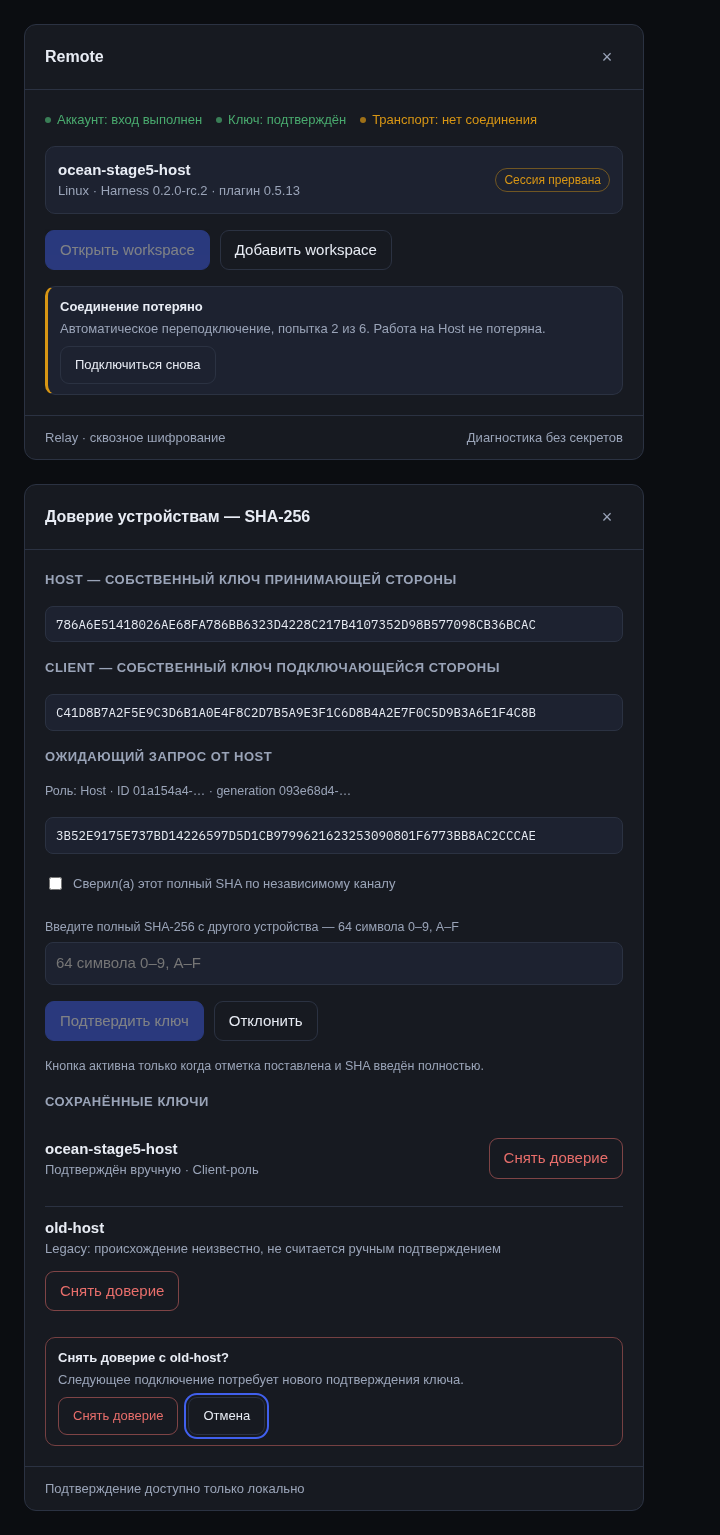
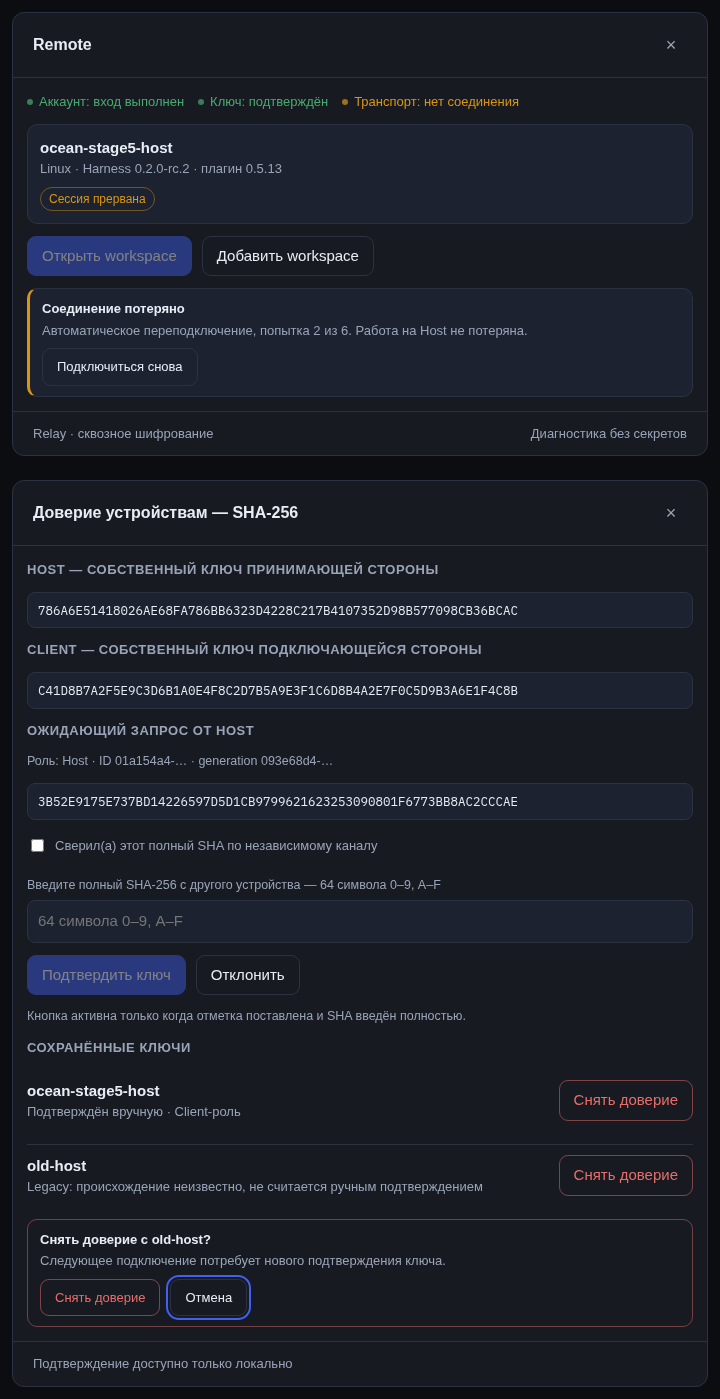
fix: make the zoom and target checks match the documented claims

diff --git a/docs/design/fork/mockups/settings-and-ocean.html b/docs/design/fork/mockups/settings-and-ocean.html
@@ -41,6 +41,7 @@
   .switch::after{content:"";position:absolute;top:50%;left:4px;transform:translateY(-50%);width:16px;height:16px;border-radius:50%;background:var(--muted)}
   .switch--on{background:color-mix(in srgb,var(--accent) 55%,transparent)}
   .switch--on::after{left:24px;background:#fff}
+  .switch:focus-visible{outline:2px solid var(--accent);outline-offset:2px}
   .notice{border:1px solid var(--border);border-left:3px solid var(--warning);border-radius:10px;padding:10px 12px;font-size:13px;color:var(--muted);background:var(--surface-2)}
   .notice strong{display:block;color:var(--ink);margin-bottom:2px}
   .meta{display:grid;grid-template-columns:max-content 1fr;gap:6px 16px;font-size:13px;color:var(--muted);margin:0}
@@ -56,7 +57,7 @@
   .pill--ok{color:var(--success);border-color:color-mix(in srgb,var(--success) 45%,transparent)}
   .pill--off{color:var(--muted)}
   .footer{display:flex;justify-content:space-between;gap:12px;padding:12px 20px;border-top:1px solid var(--border);font-size:13px;color:var(--muted);flex-wrap:wrap}
-  @media (max-width:700px){
+  @media (max-width:760px){
     .stage{padding:12px}
     .card,.card--wide{width:100%}
     .card__body{padding:14px;gap:12px}

diff --git a/docs/design/fork/mockups/remote-card.html b/docs/design/fork/mockups/remote-card.html
@@ -53,7 +53,7 @@
   .pin{display:flex;justify-content:space-between;align-items:center;gap:12px;padding:10px 0;flex-wrap:wrap}
   .pin + .pin{border-top:1px solid var(--border)}
   .footer{display:flex;justify-content:space-between;align-items:center;gap:12px;padding:12px 20px;border-top:1px solid var(--border);font-size:13px;color:var(--muted);flex-wrap:wrap}
-  @media (max-width:700px){
+  @media (max-width:760px){
     .stage{padding:12px}
     .card{width:100%}
     .card__body{padding:14px;gap:12px}

diff --git a/docs/design/fork/05-acceptance-checklist.ru.md b/docs/design/fork/05-acceptance-checklist.ru.md
@@ -4,10 +4,10 @@
 
 | Пункт | Что требуется | Как проверяется | Статус |
 | --- | --- | --- | --- |
-| UX-AC1 | Пользовательский путь 02–05 остаётся рабочим, security-тесты проходят на тех же контрактах | `pnpm -r test`, `pnpm --filter './packages/plugin' test`, чек-листы [установки](../../install-acceptance.ru.md) и [сессии](../../session-acceptance.ru.md) | Частично: тесты зелёные (494), живые двухмашинные прогоны ждут доступа к bigpc |
-| UX-AC2 | Все состояния отображены и проверены: неверный пароль, истечение запроса, смена ключа, частичный отзыв, потеря сети | матрица состояний [01-screen-map](01-screen-map.ru.md) + живые прогоны | Частично: неверный пароль/смена ключа/обрыв покрыты кодом и макетами; истечение pending и частичный отзыв в реальном UI не прогонялись |
+| UX-AC1 | Пользовательский путь 02–05 остаётся рабочим, security-тесты проходят на тех же контрактах | `pnpm --filter './packages/plugin' test` (494 теста), `pnpm -r test` для остальных пакетов, чек-листы [установки](../../install-acceptance.ru.md) и [сессии](../../session-acceptance.ru.md) | Частично: плагин — 494 теста зелёные; полный `pnpm -r test` в этой копии репозитория не запускается без `pnpm install` (нет workspace-связей); живые двухмашинные прогоны ждут доступа к bigpc |
+| UX-AC2 | Все состояния отображены и проверены: неверный пароль, истечение запроса, смена ключа, частичный отзыв, потеря сети | матрица состояний [01-screen-map](01-screen-map.ru.md) + живые прогоны | Частично: смена ключа и обрыв покрыты кодом и тестами, состояния остальных описаны в матрице и wireframes (не нарисованы в макетах); истечение pending и частичный отзыв в реальном UI не прогонялись |
 | UX-AC3 | Клавиатура и скринридер, нет фокуса за модалью и потери фокуса после закрытия | `pnpm check:mockups` (видимый фокус у всех контролов), ручной проход по диалогам | Частично: макеты проверены, живой интерфейс — нет |
-| UX-AC4 | Визуальная проверка на согласованных viewport/темах/zoom; нет обрезанного SHA и скрытых последствий | `pnpm check:mockups` (360/768/1440/720 = 200% зум, SHA 64 символа), `pnpm check:contrast` | Частично: макеты проверены; светлая тема и живой интерфейс — нет |
+| UX-AC4 | Визуальная проверка на согласованных viewport/темах/zoom; нет обрезанного SHA и скрытых последствий | `pnpm check:mockups` (360/768/1440 и 720/705 ≈ 200% зума по ширине, SHA 64 символа), `pnpm check:contrast` | Частично: макеты проверены; светлая тема и живой интерфейс — нет |
 | UX-AC5 | Макеты и фактический UI показаны пользователю, ассеты/лицензии задокументированы | [макеты](mockups/README.ru.md), [UI kit](03-ui-kit.ru.md) | Ожидает показа: макеты готовы, визуальное направление не согласовано; лицензия base64-иконок вендоров остаётся открытым вопросом |
 
 ## Что автоматизировано
@@ -15,10 +15,10 @@
 | Команда | Покрывает |
 | --- | --- |
 | `pnpm check:contrast` | 26 пар цветов консоли Ocean в двух темах, включая границы контролов и фокус |
-| `pnpm check:mockups` | макеты: нет горизонтального скролла, SHA не обрезан, доступные имена, видимый фокус, цели ≥ 32 px, нет анимации при `prefers-reduced-motion` |
+| `pnpm check:mockups` | макеты на 360/768/1440/720/705 px: нет горизонтального скролла, SHA не обрезан, доступные имена, видимый фокус, цели ≥ 32×32 px, отсутствие CSS-анимации при `prefers-reduced-motion` |
 | `pnpm -r test` | функциональные и security-тесты плагина и сервера |
 
-Обе проверки дизайна требуют Playwright только для `check:mockups`; без него шаг падает, а не пропускается молча.
+Ограничения автоматики: `check:mockups` эмулирует 200% зума только по ширине (высота окна 450 px) и видит лишь CSS-анимации, существующие на момент загрузки — переходы и анимации из JS не покрыты. Без Playwright шаг падает, а не пропускается молча.
 
 ## Что остаётся ручным
 

diff --git a/docs/design/fork/mockups/README.ru.md b/docs/design/fork/mockups/README.ru.md
@@ -25,7 +25,7 @@
 
 ## Как проверяется
 
-`pnpm check:mockups` рендерит каждый макет на 360/768/1440 и проверяет:
+`pnpm check:mockups` рендерит каждый макет на 360/768/1440 плюс 720 и 705 px (примерно 200% зума) и проверяет:
 
 - нет горизонтального скролла страницы (`scrollWidth <= clientWidth + 1`);
 - поля SHA: ровно 64 символа, без обрезки, и их количество совпадает с `data-sha-count` у `<body>`;
@@ -33,7 +33,7 @@
 - у каждого фокусируемого контрола видимый индикатор фокуса (`outline` или `box-shadow`); `disabled` исключены как недоступные фокусу;
 - есть заголовки разделов для навигации.
 
-Проверяются также ширина 720 px (примерно 200% зума от 1440), отсутствие анимации при `prefers-reduced-motion` и размер целей не меньше 32 px. Нужен Playwright, поэтому это **локальная проверка дизайна**. Если Playwright не найден, скрипт **падает** с перечнем причин, а не печатает успех; осознанный пропуск — `--allow-skip`. Флаг `--write-shots` заново рендерит PNG в этой папке.
+Проверяются также размер целей не меньше 32×32 px (внутренний минимум между требованиями WCAG 2.2: 24 px обязательно, 44 px рекомендуется) и отсутствие CSS-анимации при `prefers-reduced-motion` (переходы и JS-анимации этой проверкой не покрыты). Нужен Playwright, поэтому это **локальная проверка дизайна**. Если Playwright не найден, скрипт **падает** с перечнем причин, а не печатает успех; осознанный пропуск — `--allow-skip`. Флаг `--write-shots` заново рендерит PNG в этой папке.
 
 ## Что проверено по макету
 
@@ -54,4 +54,4 @@
 ## Чего в макетах нет
 
 - Светлая тема: показана только тёмная.
-- Автоматическое измерение контраста не выполнялось (значения выбраны по целевым AA).
+- Контраст **палитры продукта** измеряется скриптом `check:contrast` (консоль Ocean), но цвета самих макетов отдельно не проверяются.

diff --git a/docs/design/fork/README.ru.md b/docs/design/fork/README.ru.md
@@ -17,7 +17,7 @@
 
 - **Макеты desktop и узкого экрана сделаны** для двух экранов: [карточка Remote и панель «Ключи»](mockups/README.ru.md) (1440 и 360). Экраны настроек и консоли Ocean — следующая итерация после согласования направления.
 - Токены вынесены не полностью: плагин использует native-темы, у консоли Ocean свои переменные; часть семантических токенов (успех/предупреждение/опасность) ещё не введена.
-- Контраст палитры консоли Ocean проверяется автоматически (`pnpm check:contrast`, шаг CI, 26 пар). Поверхности плагина на токенах native DSH этим не покрыты. Адаптив макетов проверяется скриптом `pnpm check:mockups` (360/768/1440, `--write-shots` перегенерирует PNG; без Playwright шаг падает, а не пропускается молча); живой интерфейс — по-прежнему глазами.
+- Контраст палитры консоли Ocean проверяется автоматически (`pnpm check:contrast`, шаг CI, 26 пар). Поверхности плагина на токенах native DSH этим не покрыты. Адаптив макетов проверяется скриптом `pnpm check:mockups` (360/768/1440 плюс 720/705 ≈ 200% зума, `--write-shots` перегенерирует PNG; без Playwright шаг падает, а не пропускается молча); живой интерфейс — по-прежнему глазами.
 - **Лицензии ассетов:** в `packages/plugin/src/client/icons.ts` лежат base64-PNG иконок сторонних вендоров без указания источника и лицензии; `THIRD_PARTY_NOTICES` покрывает только серверные зависимости. Нужно либо задокументировать, либо заменить своими SVG (задача шага 1).
 - Темы: поддержка светлой/тёмной темы native DSH **не проверялась** аудитом.
 

diff --git a/docs/CHANGELOG.md b/docs/CHANGELOG.md
@@ -1,6 +1,6 @@
 ## Unreleased
 
-- Форк: `pnpm check:mockups` проверяет макеты на 360/768/1440 плюс 720 px (200% зума), отсутствие анимации при `prefers-reduced-motion` и цели ≥ 32 px, поля SHA по 64 символа, доступные имена и видимый фокус; умеет перегенерировать PNG; без Playwright шаг падает вместо тихого пропуска. Попутно исправлено переполнение таблицы в макете консоли.
+- Форк: `pnpm check:mockups` проверяет макеты на 360/768/1440 плюс 720/705 px (около 200% зума по ширине), отсутствие CSS-анимации при `prefers-reduced-motion`, цели ≥ 32×32 px, поля SHA по 64 символа, доступные имена и видимый фокус; умеет перегенерировать PNG; без Playwright шаг падает вместо тихого пропуска. Попутно исправлено переполнение таблицы в макете консоли.
 
 - Форк: добавлена автоматическая проверка контраста палитры консоли (обе темы, 26 пар, включая границы контролов и фокус), шаг CI и тест; для границ интерактивных элементов введён токен `--border-strong`.
 
